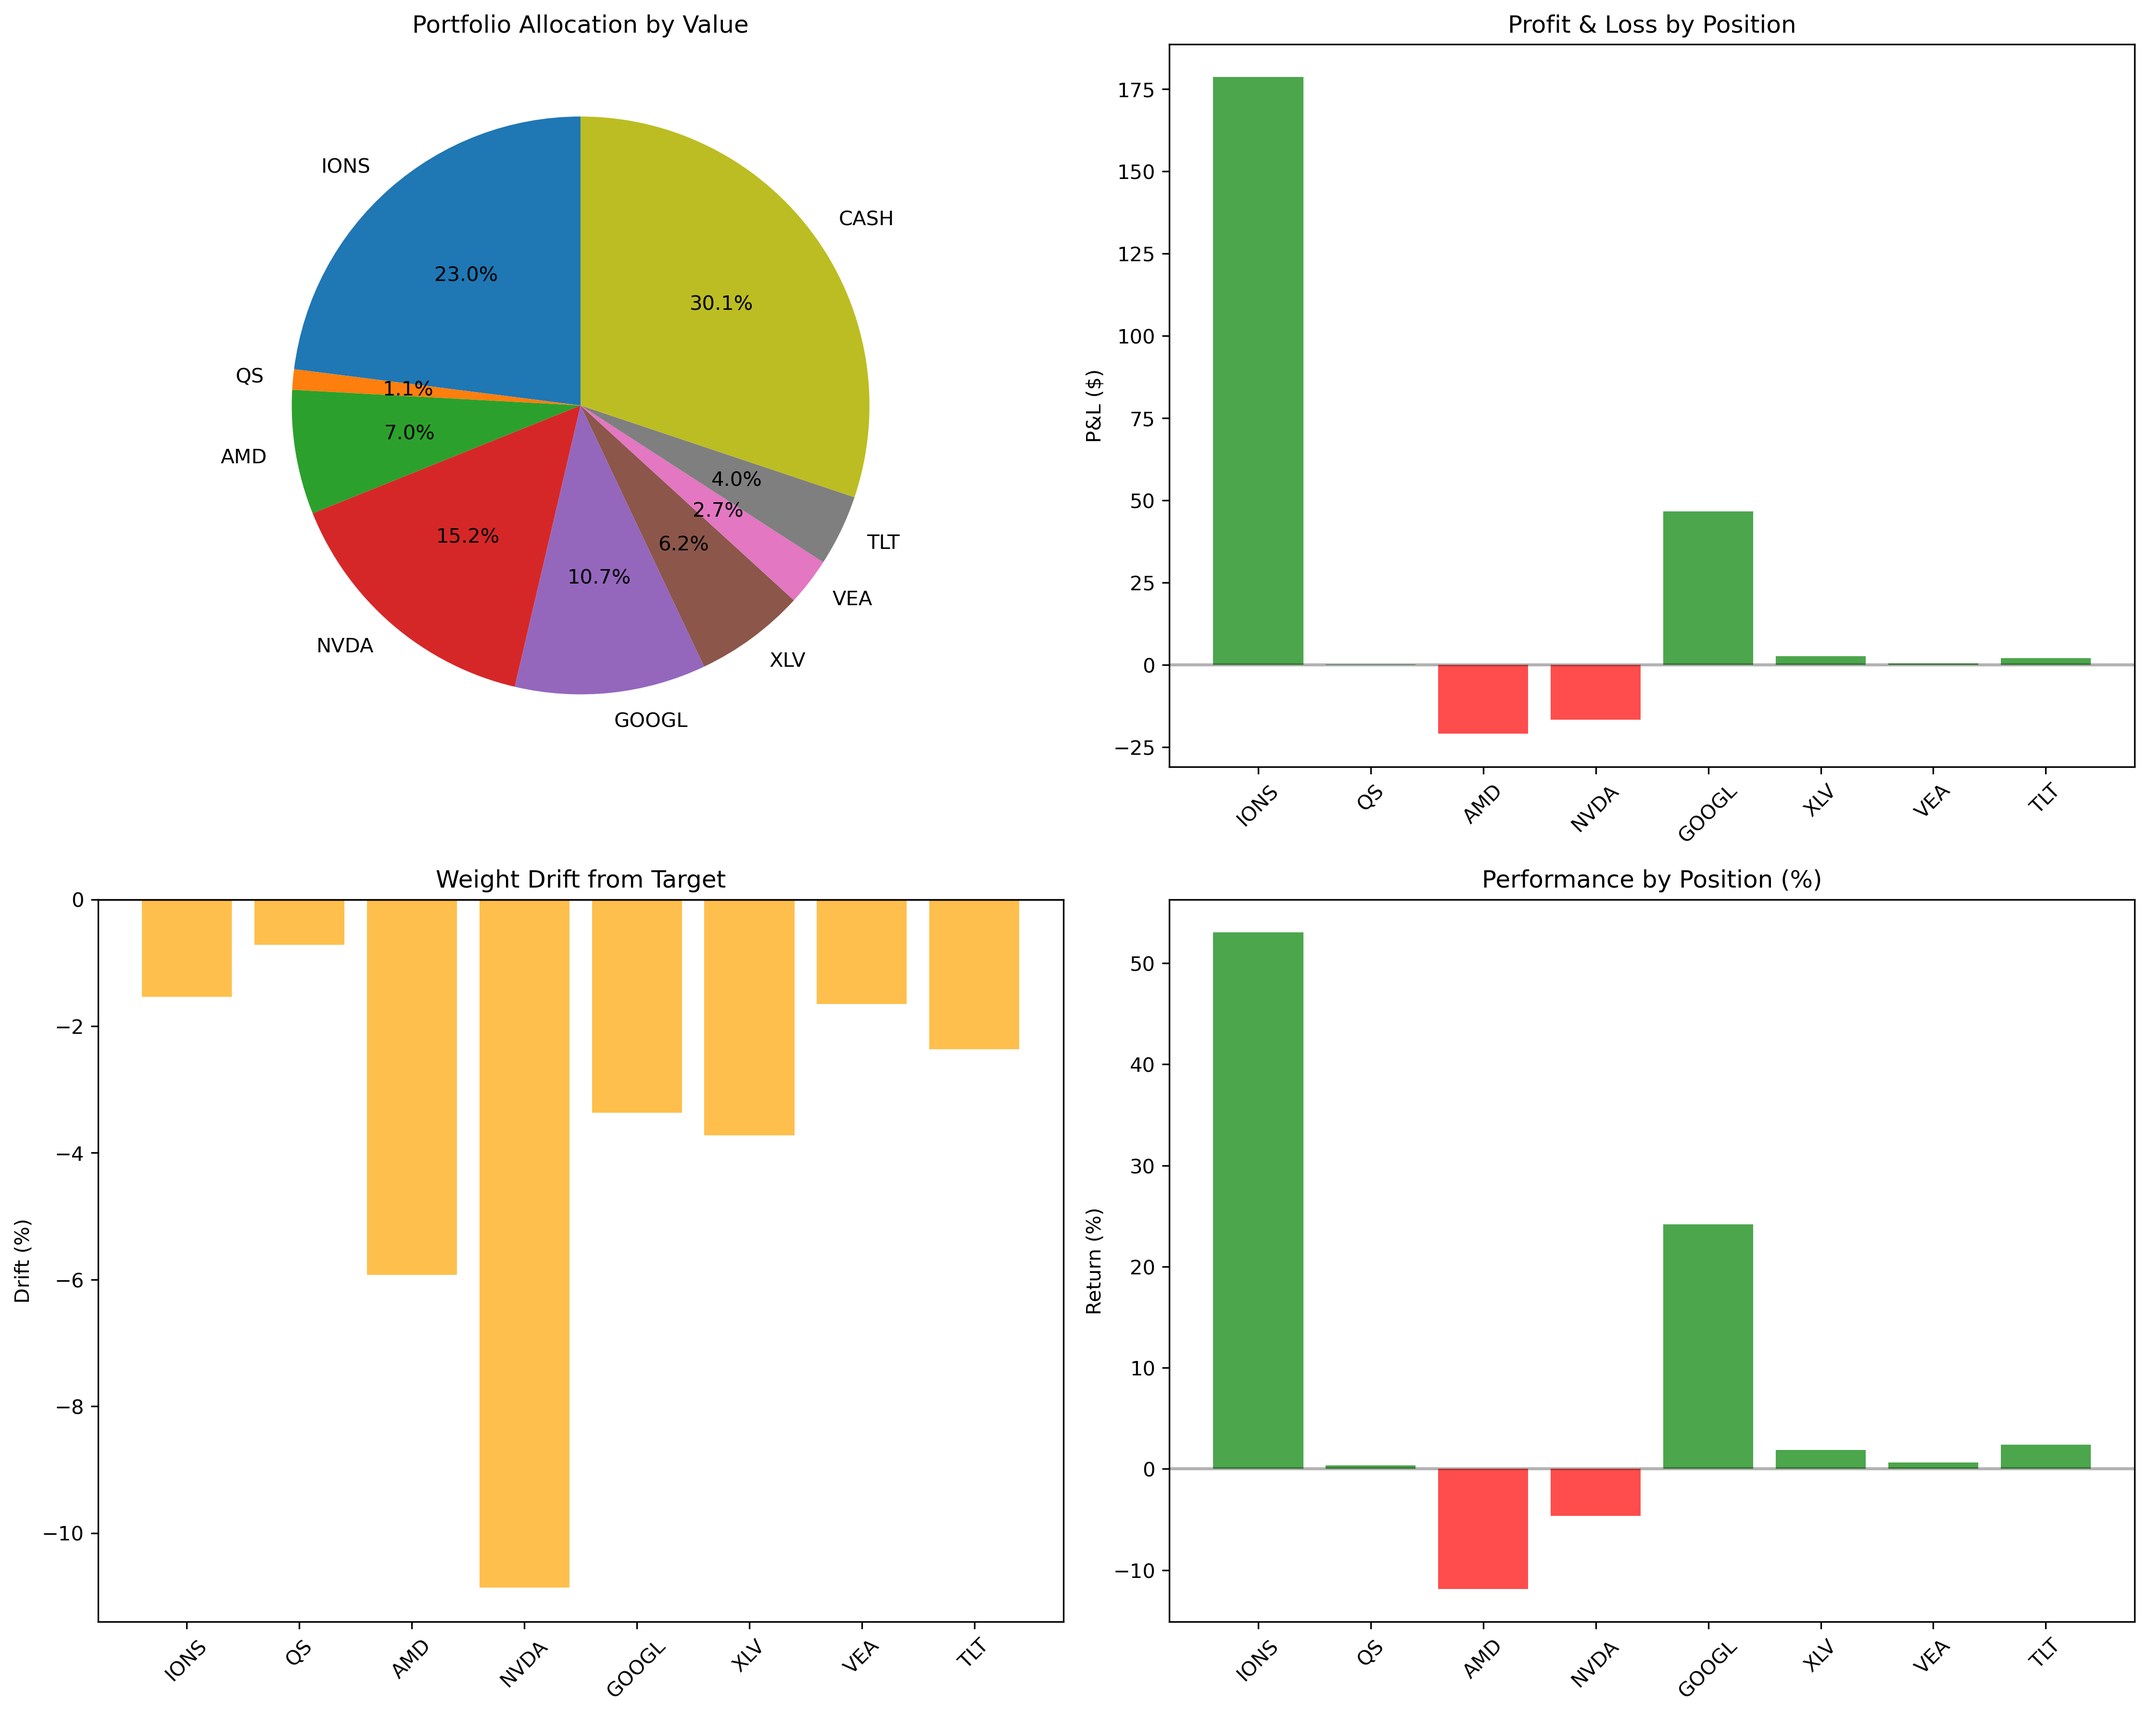
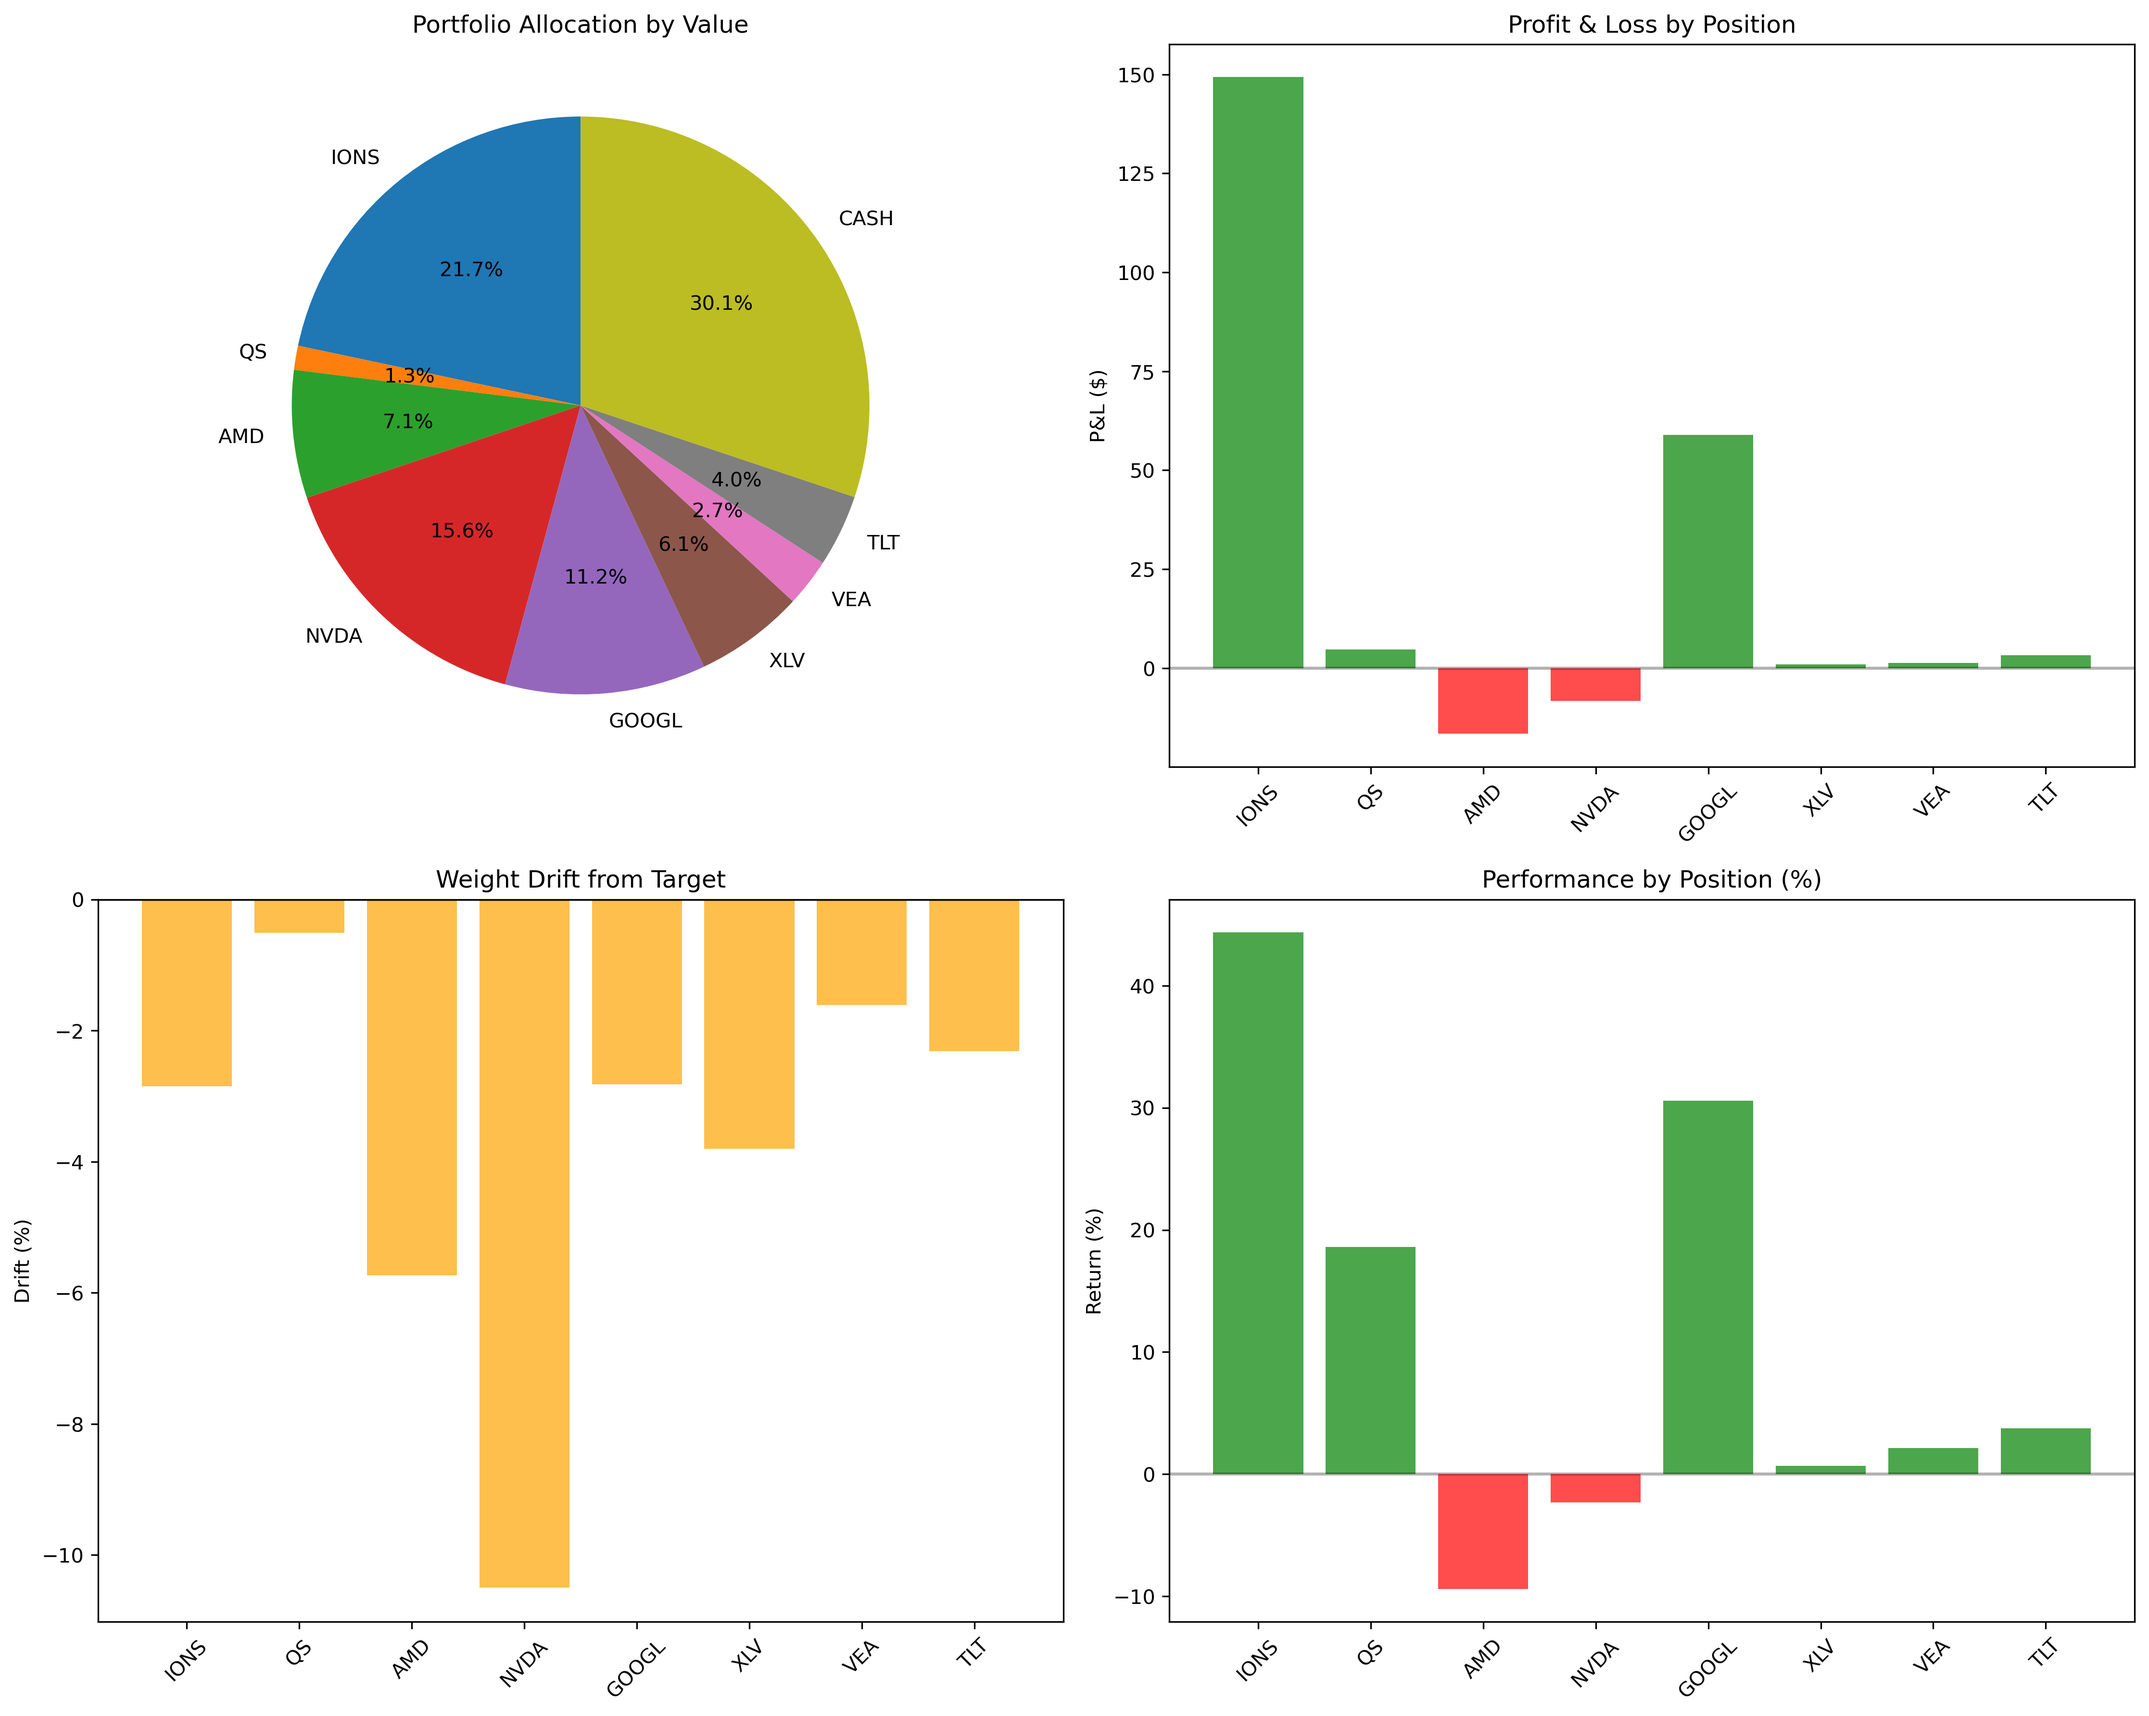
New report

diff --git a/Trading/LLM Managed Portfolio/Portfolio Scripts Schwab/main.py b/Trading/LLM Managed Portfolio/Portfolio Scripts Schwab/main.py
@@ -100,23 +100,14 @@ def main():
     market_is_open = is_market_open()
     
     if args.report_only:
-        # --report-only mode: Only allow when market is CLOSED
+        # --report-only mode: Allow anytime, but note market status
+        et_tz = pytz.timezone('US/Eastern')
+        current_time = datetime.now(et_tz).strftime('%Y-%m-%d %H:%M:%S %Z')
         if market_is_open:
-            et_tz = pytz.timezone('US/Eastern')
-            current_time = datetime.now(et_tz).strftime('%Y-%m-%d %H:%M:%S %Z')
-            print("🚫 REPORT-ONLY MODE RESTRICTED DURING MARKET HOURS")
-            print(f"Current time: {current_time}")
-            print("The --report-only flag can only be used when the market is CLOSED:")
-            print("• After 4:00 PM Eastern Time on trading days")
-            print("• On weekends and holidays")
-            print("• Before 9:30 AM Eastern Time on trading days")
-            print("\nThis ensures report prices reflect the most recent close prices.")
-            print("During market hours, use the full trading mode or wait until market close.")
-            exit(1)
+            print(f"📊 Market is open - Report-only mode enabled with current prices - {current_time}")
+            print("ℹ  Note: Using current market prices during trading hours")
         else:
-            et_tz = pytz.timezone('US/Eastern')
-            current_time = datetime.now(et_tz).strftime('%Y-%m-%d %H:%M:%S %Z')
-            print(f"✅ Market is closed - Report-only mode enabled - {current_time}")
+            print(f"✅ Market is closed - Report-only mode enabled with close prices - {current_time}")
     else:
         # All other modes: Require market to be OPEN
         if not market_is_open:
@@ -230,10 +221,14 @@ def main():
                 print("❌ No trading document found")
                 
         elif args.report_only:
-            # Only generate the report without executing trades - use close prices when market is closed
+            # Only generate the report without executing trades
             print("🔍 Running in read-only mode - no trades will be executed")
-            print("💰 Using most recent close prices for accurate after-hours valuation")
-            portfolio_system.generate_report(prefer_close_prices=True)
+            if market_is_open:
+                print("📊 Using current market prices during trading hours")
+                portfolio_system.generate_report(prefer_close_prices=False)
+            else:
+                print("💰 Using most recent close prices for accurate after-hours valuation")
+                portfolio_system.generate_report(prefer_close_prices=True)
             
         else:
             # Full execution mode: Execute trades then generate report

diff --git a/Trading/LLM Managed Portfolio/Portfolio Scripts Schwab/portfolio_manager.py b/Trading/LLM Managed Portfolio/Portfolio Scripts Schwab/portfolio_manager.py
@@ -36,6 +36,10 @@ class PortfolioManager:
         self.min_cash_reserve = 0.00
         self.partial_fill_threshold = 0.8  # 80% threshold for SMART mode
         
+        # Stop-loss management
+        self.stop_losses = {}  # {ticker: {price, shares, set_date, reason}}
+        self.last_run = None
+        
         # Load existing state or set defaults
         if not self.load_portfolio_state():
             self.cash = 0.00
@@ -81,6 +85,7 @@ class PortfolioManager:
             
             # Create state data
             current_time = pd.Timestamp.now()
+            self.last_run = current_time.isoformat()  # Update last run time
             state = {
                 'timestamp': current_time.isoformat(),
                 'cash': self.cash,
@@ -89,6 +94,8 @@ class PortfolioManager:
                 'partial_fill_mode': self.partial_fill_mode.value,
                 'min_cash_reserve': self.min_cash_reserve,
                 'partial_fill_threshold': self.partial_fill_threshold,
+                'stop_losses': self.stop_losses,
+                'last_run': self.last_run,
                 'last_updated': str(current_time)
             }
             
@@ -140,6 +147,10 @@ class PortfolioManager:
                 self.partial_fill_mode = PartialFillMode.from_string(state['partial_fill_mode'])
             self.min_cash_reserve = float(state.get('min_cash_reserve', 0.00))
             self.partial_fill_threshold = float(state.get('partial_fill_threshold', 0.8))
+            
+            # Load stop-loss data
+            self.stop_losses = state.get('stop_losses', {})
+            self.last_run = state.get('last_run', None)
             
             print(f"✅ Portfolio state loaded from {state_file}")
             print(f"   Cash: ${self.cash:.2f}")

diff --git a/Trading/LLM Managed Portfolio/daily_portfolio_analysis.md b/Trading/LLM Managed Portfolio/daily_portfolio_analysis.md
@@ -1,80 +1,79 @@
-# Daily Portfolio Analysis - 2025-09-10
+# Daily Portfolio Analysis - 2025-09-16
 
 ## Executive Summary
-- **Total Portfolio Value**: $2,240.37
-- **Total P&L**: $+240.37 (+12.02%)
+- **Total Portfolio Value**: $2,241.21
+- **Total P&L**: $+241.21 (+12.06%)
 - **Cash Position**: $675.42
 - **Active Positions**: 8
 
 ## Benchmark Comparison
-- **SPY_daily**: +0.00%
-- **IWM_daily**: +0.00%
+- **SPY_daily**: -0.11%
+- **IWM_daily**: -0.67%
 
 ## Position Analysis
 ### IONS
 - Shares: 8
-- Current Price: $64.40
-- P&L: $+178.60 (+53.06%)
-- Portfolio Weight: 23.0%
-- Weight Drift: -1.5%
+- Current Price: $60.74
+- P&L: $+149.32 (+44.36%)
+- Portfolio Weight: 21.7%
+- Weight Drift: -2.8%
 
 ### QS
 - Shares: 3
-- Current Price: $8.53
-- P&L: $+0.09 (+0.35%)
-- Portfolio Weight: 1.1%
-- Weight Drift: -0.7%
+- Current Price: $10.08
+- P&L: $+4.74 (+18.60%)
+- Portfolio Weight: 1.3%
+- Weight Drift: -0.5%
 
 ### AMD
 - Shares: 1
-- Current Price: $155.82
-- P&L: $-20.96 (-11.86%)
-- Portfolio Weight: 7.0%
-- Weight Drift: -5.9%
+- Current Price: $160.19
+- P&L: $-16.59 (-9.38%)
+- Portfolio Weight: 7.1%
+- Weight Drift: -5.7%
 
 ### NVDA
 - Shares: 2
-- Current Price: $170.76
-- P&L: $-16.64 (-4.65%)
-- Portfolio Weight: 15.2%
-- Weight Drift: -10.9%
+- Current Price: $174.92
+- P&L: $-8.33 (-2.32%)
+- Portfolio Weight: 15.6%
+- Weight Drift: -10.5%
 
 ### GOOGL
 - Shares: 1
-- Current Price: $239.63
-- P&L: $+46.63 (+24.16%)
-- Portfolio Weight: 10.7%
-- Weight Drift: -3.4%
+- Current Price: $251.99
+- P&L: $+58.99 (+30.56%)
+- Portfolio Weight: 11.2%
+- Weight Drift: -2.8%
 
 ### XLV
 - Shares: 1
-- Current Price: $138.59
-- P&L: $+2.58 (+1.90%)
-- Portfolio Weight: 6.2%
-- Weight Drift: -3.7%
+- Current Price: $136.95
+- P&L: $+0.94 (+0.69%)
+- Portfolio Weight: 6.1%
+- Weight Drift: -3.8%
 
 ### VEA
 - Shares: 1
-- Current Price: $59.37
-- P&L: $+0.38 (+0.65%)
+- Current Price: $60.26
+- P&L: $+1.27 (+2.15%)
 - Portfolio Weight: 2.7%
 - Weight Drift: -1.6%
 
 ### TLT
 - Shares: 1
-- Current Price: $89.23
-- P&L: $+2.09 (+2.40%)
+- Current Price: $90.41
+- P&L: $+3.27 (+3.76%)
 - Portfolio Weight: 4.0%
-- Weight Drift: -2.4%
+- Weight Drift: -2.3%
 
 ## Alerts & Recommendations
-- **HIGH**: IONS up +53.1% - consider taking profits
-- **MEDIUM**: AMD underweight by 5.9% - consider rebalancing
-- **MEDIUM**: NVDA underweight by 10.9% - consider rebalancing
+- **MEDIUM**: AMD underweight by 5.7% - consider rebalancing
+- **MEDIUM**: NVDA underweight by 10.5% - consider rebalancing
 - **MEDIUM**: High cash level (33.0%) - consider deploying capital
 
 ## Recent Performance Trend
 *Historical performance data will be populated as data accumulates*
 
 ---
-*Generated: 2025-09-10 17:31:22*
+*Generated: 2025-09-16 14:19:41*

diff --git a/Trading/LLM Managed Portfolio/PM_README.md b/Trading/LLM Managed Portfolio/PM_README.md
@@ -9,8 +9,9 @@
   ## 📊 YOUR CURRENT ASSIGNMENT
 
   **Portfolio Details:**
-  - Investment Period: August 5, 2025 to July 30, 2026
-  - Strategy: Catalyst-driven momentum with concentrated positions
+  - Goal: Maximize returns in 3-8 month timeframe
+  - Investment Period: 5 years 
+  - Strategy: A combination of catalyst driven momentum companies and undervalued companies. A company does not need to fall in both of these categories, only one
   - Risk Profile: Moderate-aggressive with strict risk controls
   - Current Portfolio Value: Analyze the provided data
 
